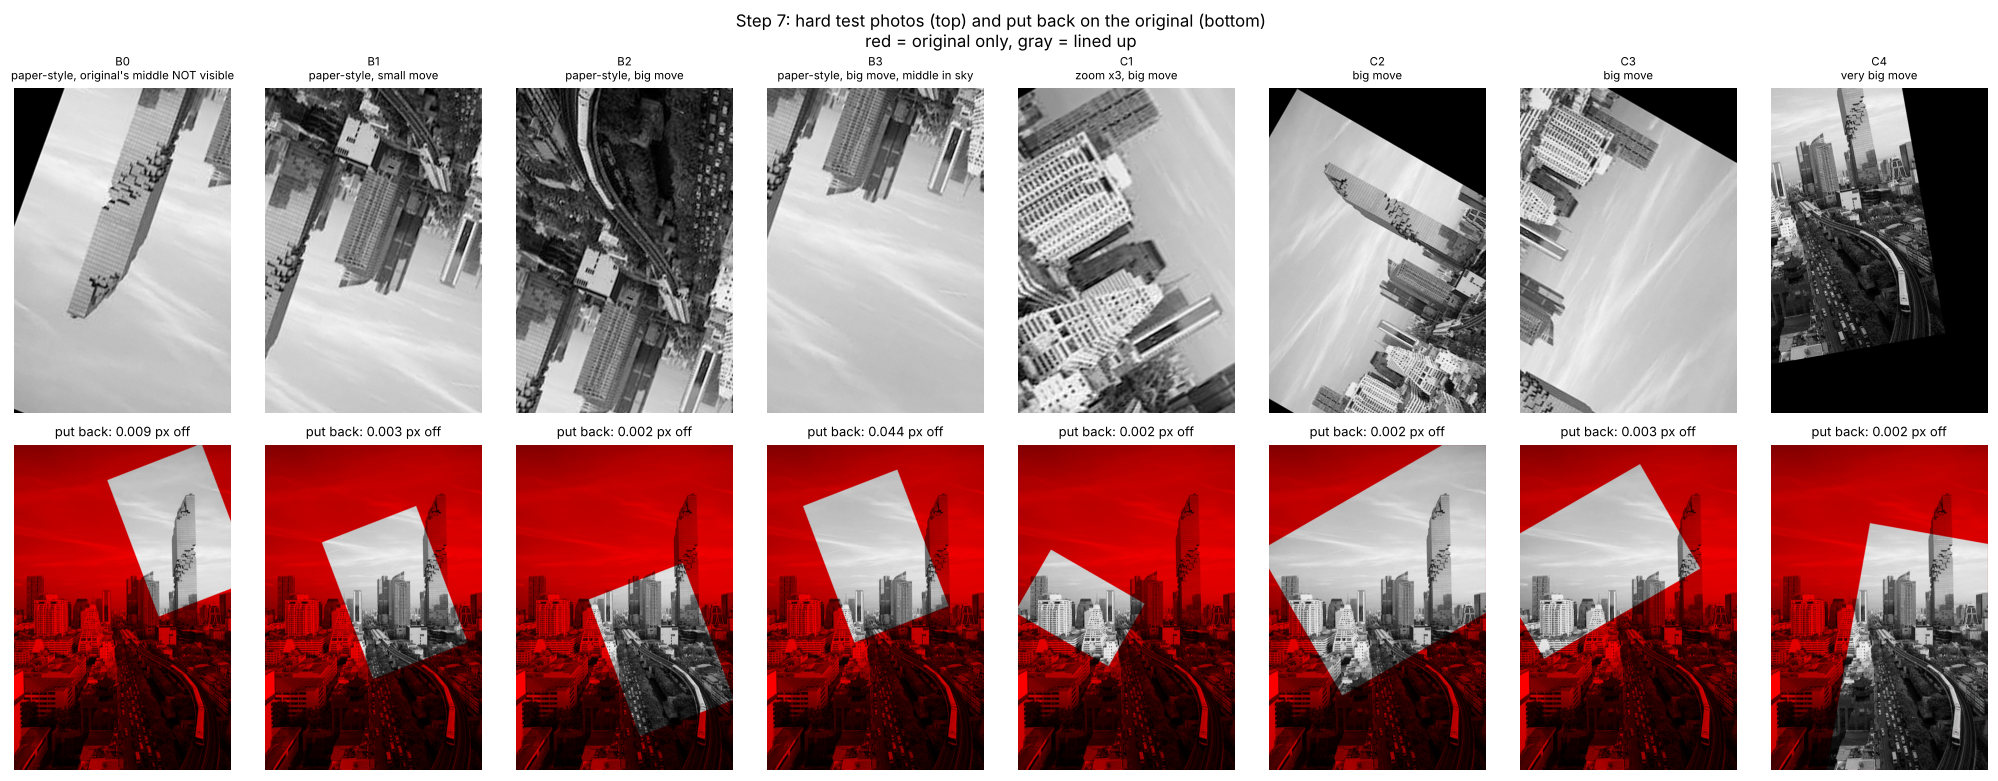
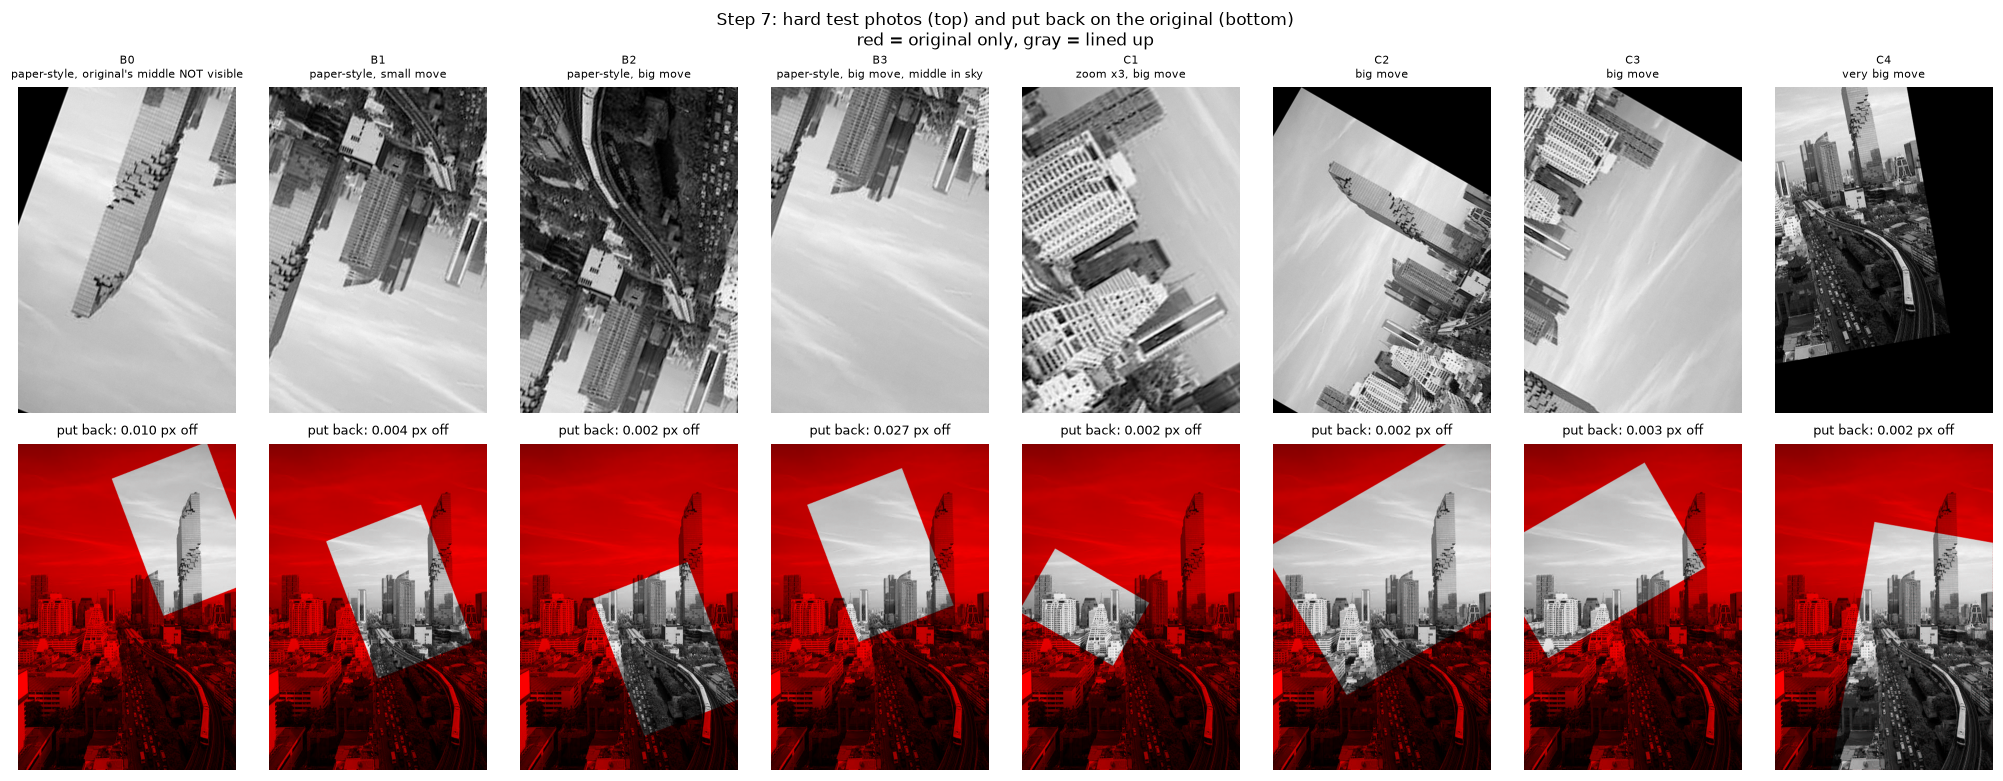
Step 11: zoom limits test (paper check), my Mac test results
- Add step8_zoom_limits.py: zoom x0.25 to x10 -> works x0.5 to x3,
  fails at x4+ (rough search on 4x smaller copy loses the spot) and x0.35-
- Paper: log-polar up to ten-fold, x4 in practice -> weaker than the paper here
- Include my Mac run of steps 4 and 7
- Update journal, tests, ideas, Q&A (Q19), report notes, README, improvements, handoff

Claude-Session: https://claude.ai/code/session_01RXpx79UWUGNuF9rDP5hVa9

diff --git a/step8_zoom_limits.py b/step8_zoom_limits.py
@@ -1,0 +1,63 @@
+"""
+Step 8 - How far can we zoom? (zoom IN up to x10, zoom OUT down to x0.25)
+
+The paper says:
+  - the log-polar part can handle up to TEN-fold (x10) zoom differences,
+  - "in practice we don't expect scale changes beyond factors of four" (x4),
+  - the optimizer alone only works within x2 zoom and 45 degrees.
+The paper's examples: x4 zoom + 45 degrees (Fig. 2), and scale 0.469 (= x2.13 the other
+way round) + 201 degrees (Fig. 3).
+
+Here every test photo is made like the hard tests of Step 7: turned 40 degrees,
+moved a little (spot offset (20, -15)), zoomed by the factor below, a little noise.
+  zoom > 1 = zoom IN  (test photo shows a SMALLER part of the city, bigger)
+  zoom < 1 = zoom OUT (test photo shows the WHOLE city, smaller, black around it)
+
+Output: results/step8_zoom_limits.json
+"""
+import json
+import os
+import time
+
+import numpy as np
+
+import step4_find_shift as s4
+import step6_optimizer as s6
+import step7_hard_tests as s7
+
+ZOOMS = [4, 5, 6, 8, 10, 0.75, 0.5, 0.35, 0.25]
+GOOD = 0.1
+
+
+def main():
+    original = s4.load_gray("images/original.jpg")
+    h, w = original.shape
+    print(f"{'zoom':>6} | {'found turn':>10} {'found zoom':>10} | {'px off: search':>14} -> "
+          f"{'optimizer':>10} | {'photo filled':>12} | {'time':>5} | verdict")
+    print("-" * 92)
+    results = []
+    for z in ZOOMS:
+        test, m_true = s7.make_hard_test(original, 40, z, (20, -15), s7.NO_STRETCH)
+        start = time.time()
+        r = s4.find_turn_zoom_shift(original, test)
+        m4 = s6.make_matrix(w, h, r["angle"], r["scale"], r["shift"][0], r["shift"][1])
+        m6, _ = s6.optimize(original, test, m4)
+        secs = time.time() - start
+        off4, off6 = s6.pixels_off(m4, m_true, test), s6.pixels_off(m6, m_true, test)
+        filled = 100 * float((test > 0).mean())
+        ok = off6 < GOOD
+        print(f"{z:6} | {r['angle']:9.2f}° {r['scale']:9.3f}x | {off4:14.2f} -> {off6:10.3f} | "
+              f"{filled:11.0f}% | {secs:4.0f}s | {'PERFECT' if ok else 'FAILED'}")
+        results.append({"zoom": z, "turn_true": 40, "turn_found": round(r["angle"], 2),
+                        "zoom_found": round(r["scale"], 3),
+                        "pixels_off_after_search": round(off4, 2),
+                        "pixels_off_after_optimizer": round(off6, 3),
+                        "photo_filled_percent": round(filled, 1),
+                        "seconds": round(secs, 1), "practically_perfect": bool(ok)})
+    with open(os.path.join("results", "step8_zoom_limits.json"), "w") as f:
+        json.dump(results, f, indent=2)
+    print("\nSaved results/step8_zoom_limits.json")
+
+
+if __name__ == "__main__":
+    main()

diff --git a/JOURNAL.md b/JOURNAL.md
@@ -352,3 +352,37 @@ average 4.7 s (old 4.4 s, friend 11.6 s).
 - Ran Steps 1–7 from the clean folder: all work, same results as before.
 
 **Next:** push to a private GitHub repo (tayzarlwintun-dev); write the report.
+
+## Step 11 – How far can we zoom? (zoom limits test) (2026-11-04)
+**Question:** zoom out and zoom above ×3 were not tested. Is this in the paper?
+
+**The paper says** (`information/Image registration using log-polar transform.pdf`):
+- log-polar can recover up to **ten-fold (×10)** zoom; "in practice we don't expect scale changes
+  beyond factors of four" (×4);
+- the optimizer alone needs zoom within ×2 and turn within 45°;
+- examples: ×4 + 45° (Fig. 2, mandrill) and scale 0.469 (= ×2.13 the other way) + 201° (Fig. 3).
+- The paper does not test "zoom out" separately: zoom out is the same as zoom in with the two
+  pictures swapped (their 0.469 is exactly that).
+
+**Did:** new `step8_zoom_limits.py`: turn 40°, small move, zoom ×4, 5, 6, 8, 10 and ×0.75, 0.5, 0.35, 0.25.
+
+**Results:**
+| Zoom | ×4 | ×5 | ×6 | ×8 | ×10 | ×0.75 | ×0.5 | ×0.35 | ×0.25 |
+|---|---|---|---|---|---|---|---|---|---|
+| Result | FAILED | FAILED | FAILED | FAILED | FAILED | **0.004 px** | **0.018 px** | FAILED | FAILED |
+
+So my final method works for zoom **×0.5 to ×3** (tested), NOT for ×4 or more, and NOT for ×0.35 or less.
+The paper says ×4 should work → my method is weaker than the paper here.
+
+**Why ×4 fails (checked):** the EXACT full-size comparison at the true spot still works at ×4
+(zoom read ×3.89, peak 0.088 vs 0.042 for the wrong spot), but the ROUGH search on the 4× smaller
+copies never puts the true spot on the short list (closest proposed spot 133 px away).
+Reason: at zoom ×4 the test photo's look-circle covers only ~45 px of the original; after making
+the original 4× smaller that is ~11 px – almost nothing to compare.
+At ×6 and more even the full-size comparison fails: the test photo is a small piece (≤ 70 × 105 px)
+of my 418 × 625 photo blown up, so it is very blurry (no real detail, unlike a real camera zoom).
+
+**Why zoom out ≤ ×0.35 fails:** the test photo is mostly black (only 6–12% filled); the whole city
+is tiny inside the look-circle.
+
+**Ideas to fix (not done yet):** see `IDEAS.md`.

diff --git a/IMPROVEMENTS.md b/IMPROVEMENTS.md
@@ -128,7 +128,7 @@ or better on all 5.
 | Correction by LM is close to "do nothing" | Yes, e.g. test4 `[1.016 −0.002 −3.2 / 0.002 1.016 −5.8]` | ✅ same |
 | LM alone fails for big changes | Yes: start from "no change" → test1 42 px, test4 15,058 px, B1 285 px, C2 150 px off | ✅ confirmed |
 | Paper's example: zoom 2.13 (0.469), turn 201°, small stretch | My B0–B3 copy this (synthetic, on my photo): 0.002–0.044 px | ✅ works |
-| Works up to zoom ~×10, any turn | Tested any turn, zoom up to ×3 only | ❓ not tested above ×3 |
+| Works up to zoom ×10 (×4 "in practice"), any turn | Any turn; zoom ×0.5 – ×3 works, ×4+ and ×0.35- fail (Step 8 test) | ❌ weaker than the paper for big zoom |
 | Real photos | Synthetic photos only | ❌ not tested |
 
 **Why the reverse direction is a plus:** the paper/friend needs the **original's middle to be
@@ -152,7 +152,8 @@ is now more robust than both the old version and my friend's version on these te
    is almost the same (4.7 s vs 4.4 s), because the old optimizer wastes time when it gets lost.
 2. **Only synthetic test photos of ONE photo.** No real second photo (lighting change, people
    moving, perspective). The paper used real photos.
-3. **Zoom out (zoom < 1) not tested,** zoom above ×3 not tested.
+3. **Zoom range only ×0.5 – ×3** (tested in `step8_zoom_limits.py`). ×4+ fails (rough search on the
+   4× smaller copy loses the spot); ×0.35- fails (test photo mostly black). Paper: up to ×4–×10.
 4. **Perspective** (photo from a different side) cannot be described by turn + zoom + shift,
    and the optimizer's 6 numbers can't fully describe it either (the paper says the same).
 5. **Settings chosen by hand** (6 per judge, ±5 px, blur steps). Other photos may need others.

diff --git a/QUESTIONS_AND_ANSWERS.md b/QUESTIONS_AND_ANSWERS.md
@@ -416,3 +416,18 @@ Different computers round numbers very slightly differently (e.g. B3: 0.027 px o
 0.044 px on Claude's computer). All verdicts (OK / BAD) are the same, so the conclusions do not
 change. When the optimizer gets LOST (optimizer alone), where it ends up is almost random,
 so those big numbers can differ a lot (2,037 vs 15,058 px) – both just mean "lost".
+
+## Q19. Is zooming in / out in the paper? How far does my method work?
+**The paper:** yes, zoom is the main point. It says log-polar handles up to **×10** zoom, and
+"in practice" up to **×4**. Its examples: ×4 (mandrill) and 0.469 (= ×2.13 the other way round).
+It doesn't test "zoom out" separately, because zoom out = zoom in with the two pictures swapped.
+
+**My method (tested in `step8_zoom_limits.py`):** works from **×0.5 to ×3**. Fails at ×4 and more,
+and at ×0.35 and less. So for big zoom the paper's claim is better than my method right now.
+
+**Why (simple):** imagine finding a small close-up photo of ONE window in a photo of the whole city.
+- My rough search first makes the city photo 4× smaller to be fast. At ×4 zoom the window
+  becomes ~3 pixels – you can't recognise it any more, so the right spot never makes the short list.
+- At ×6+ the close-up itself is a blurry blown-up piece of my small photo (a real camera zoom
+  would show real detail).
+- Zoom out ×0.25: the test photo is 94% black with a tiny city in the middle.

diff --git a/README.md b/README.md
@@ -12,6 +12,7 @@ automatically, then puts picture 2 back on top of picture 1.
 - My 5 test photos: all lined up within **0.02 px** (after the optimizer).
 - 8 harder photos (paper-style turn 201° + zoom ×2.13 + stretch, zoom up to ×3, moves up to 192 px):
   all within **0.044 px**.
+- Zoom range: works from ×0.5 to ×3; fails at ×4+ and ×0.35- (see `step8_zoom_limits.py`).
 - Compared with my old version 1 and my friend's version on 13 photos:
   old 5/13, friend 10/13, **this final version 13/13** (see `IMPROVEMENTS.md`).
 
@@ -25,6 +26,7 @@ automatically, then puts picture 2 back on top of picture 1.
 | `step5_align_and_overlay.py` | puts the test photos back, red/cyan overlay |
 | `step6_optimizer.py` | Levenberg–Marquardt fine-tuning of 6 numbers (like the paper) |
 | `step7_hard_tests.py` | 8 hard test photos (B0–B3 paper-style, C1–C4 extra) with Steps 4 + 6 |
+| `step8_zoom_limits.py` | how far can we zoom? ×0.25 … ×10 → works ×0.5 – ×3 |
 
 (The journal uses its own step numbers: "Step 7" there = report notes, Steps 8–9 = comparison
 and improvement. The old version 1 and the comparison scripts are in the git history.)
@@ -55,6 +57,7 @@ python step4_find_shift.py            # ~3 s per test on a MacBook Air
 python step5_align_and_overlay.py
 python step6_optimizer.py
 python step7_hard_tests.py            # ~1-2 min
+python step8_zoom_limits.py           # ~2-4 min
 ```
 
 ## Tools

diff --git a/TESTS_AND_FAILURES.md b/TESTS_AND_FAILURES.md
@@ -37,3 +37,7 @@
 | 2026-11-04 | 10 | My Mac run of Steps 4–6 + Step 9 | same as cloud | same verdicts; Step 4 2.6–3.2 s per test | yes | tiny rounding differences only |
 | 2026-11-04 | 10 | Clean final folder, Steps 1–7 run on their own | all work | all work, 5/5 + 8/8 under 0.1 px | yes | no friend code, no version 1 |
 | 2026-11-04 | 10 | Step 7 figure titles | readable | bottom titles touched top pictures | no → fixed | more space between rows |
+| 2026-11-04 | 11 | Zoom in ×4, ×5, ×6, ×8, ×10 (turn 40°) | paper: up to ×4 (×10) works | all FAILED (145–10,818 px off) | no | rough search on 4× smaller copy loses the spot; ≥ ×6 too blurry |
+| 2026-11-04 | 11 | Zoom out ×0.75, ×0.5 | works | 0.004 / 0.018 px | yes | |
+| 2026-11-04 | 11 | Zoom out ×0.35, ×0.25 | ? | FAILED | no | test photo only 6–12% filled |
+| 2026-11-04 | 11 | ×4: full-size comparison at the true spot | correct zoom | zoom read ×3.89, peak 0.088 > 0.042 | yes | proves the rough search is the weak part |

diff --git a/HANDOFF_FOR_NEW_CHAT.md b/HANDOFF_FOR_NEW_CHAT.md
@@ -51,6 +51,7 @@ graphify is installed with a git hook (output `graphify-out/`, ignored in git).
 | `step5_align_and_overlay.py` | puts test photos back (`images/aligned/`), red/cyan overlay before vs after |
 | `step6_optimizer.py` | bonus: Levenberg–Marquardt fine-tuning of 6 affine knobs (SSD), like the paper (v2: blur 4→2→1→0.5) |
 | `step7_hard_tests.py` | 8 hard tests (B0–B3 paper-style, C1–C4 extra) with final Steps 4 + 6 |
+| `step8_zoom_limits.py` | zoom limits: works ×0.5–×3; fails ×4+ (rough search loses spot) and ×0.35- |
 | (git history only) | `step8_compare_with_friend.py`, `step9_old_vs_new.py`, version 1 of Step 4 |
 | `COMPARISON_WITH_FRIEND.md`, `IMPROVEMENTS.md` | comparison and version-2 explanation |
 | `results/*.json`, `results/*.png` | all numbers and figures |

diff --git a/IDEAS.md b/IDEAS.md
@@ -24,3 +24,9 @@
 - Test zoom out (< 1) and big zoom (×5, ×8) with the new version.
 - Test with a REAL second photo of the same place (phone photo, different time of day).
 - (partly DONE: `step7_hard_tests.py` runs the B and C tests with Steps 4 + 6.)
+- Zoom ×4+: make the rough search zoom-aware – e.g. shrink the original LESS than the test photo
+  (try a few zoom guesses ×1, ×2, ×4), so the small look-circle still has detail.
+- Zoom out (< ×0.5): swap the two pictures (zoom out = zoom in the other way round, like the paper's
+  0.469), solve, then turn the answer around.
+- Test big zoom with a BIGGER photo (e.g. 2000 px wide), so a ×8 zoom still has real detail
+  (like a real camera; my friend rendered test photos from a big photo).

diff --git a/REPORT_NOTES.md b/REPORT_NOTES.md
@@ -192,6 +192,10 @@ Use `results/step9_old_vs_new.png` and `results/step7_hard_tests.png` as figures
 - Low-detail areas (sky) are hard to match.
 - Shift found to whole pixels in Step 4 (sub-pixel only after Step 6).
 
+- **Zoom range (Step 8 test):** works ×0.5 – ×3; fails at ×4+ (rough search on the 4× smaller copy
+  loses the spot; ≥ ×6 the test photo is too blurry because my photo is small) and at ×0.35 or less
+  (test photo mostly black). The paper claims up to ×10 (×4 in practice) → weaker than the paper here.
+
 ## 9. Conclusion (1 paragraph)
 
 Log-polar turns rotation and zoom into simple slides, which phase correlation finds
